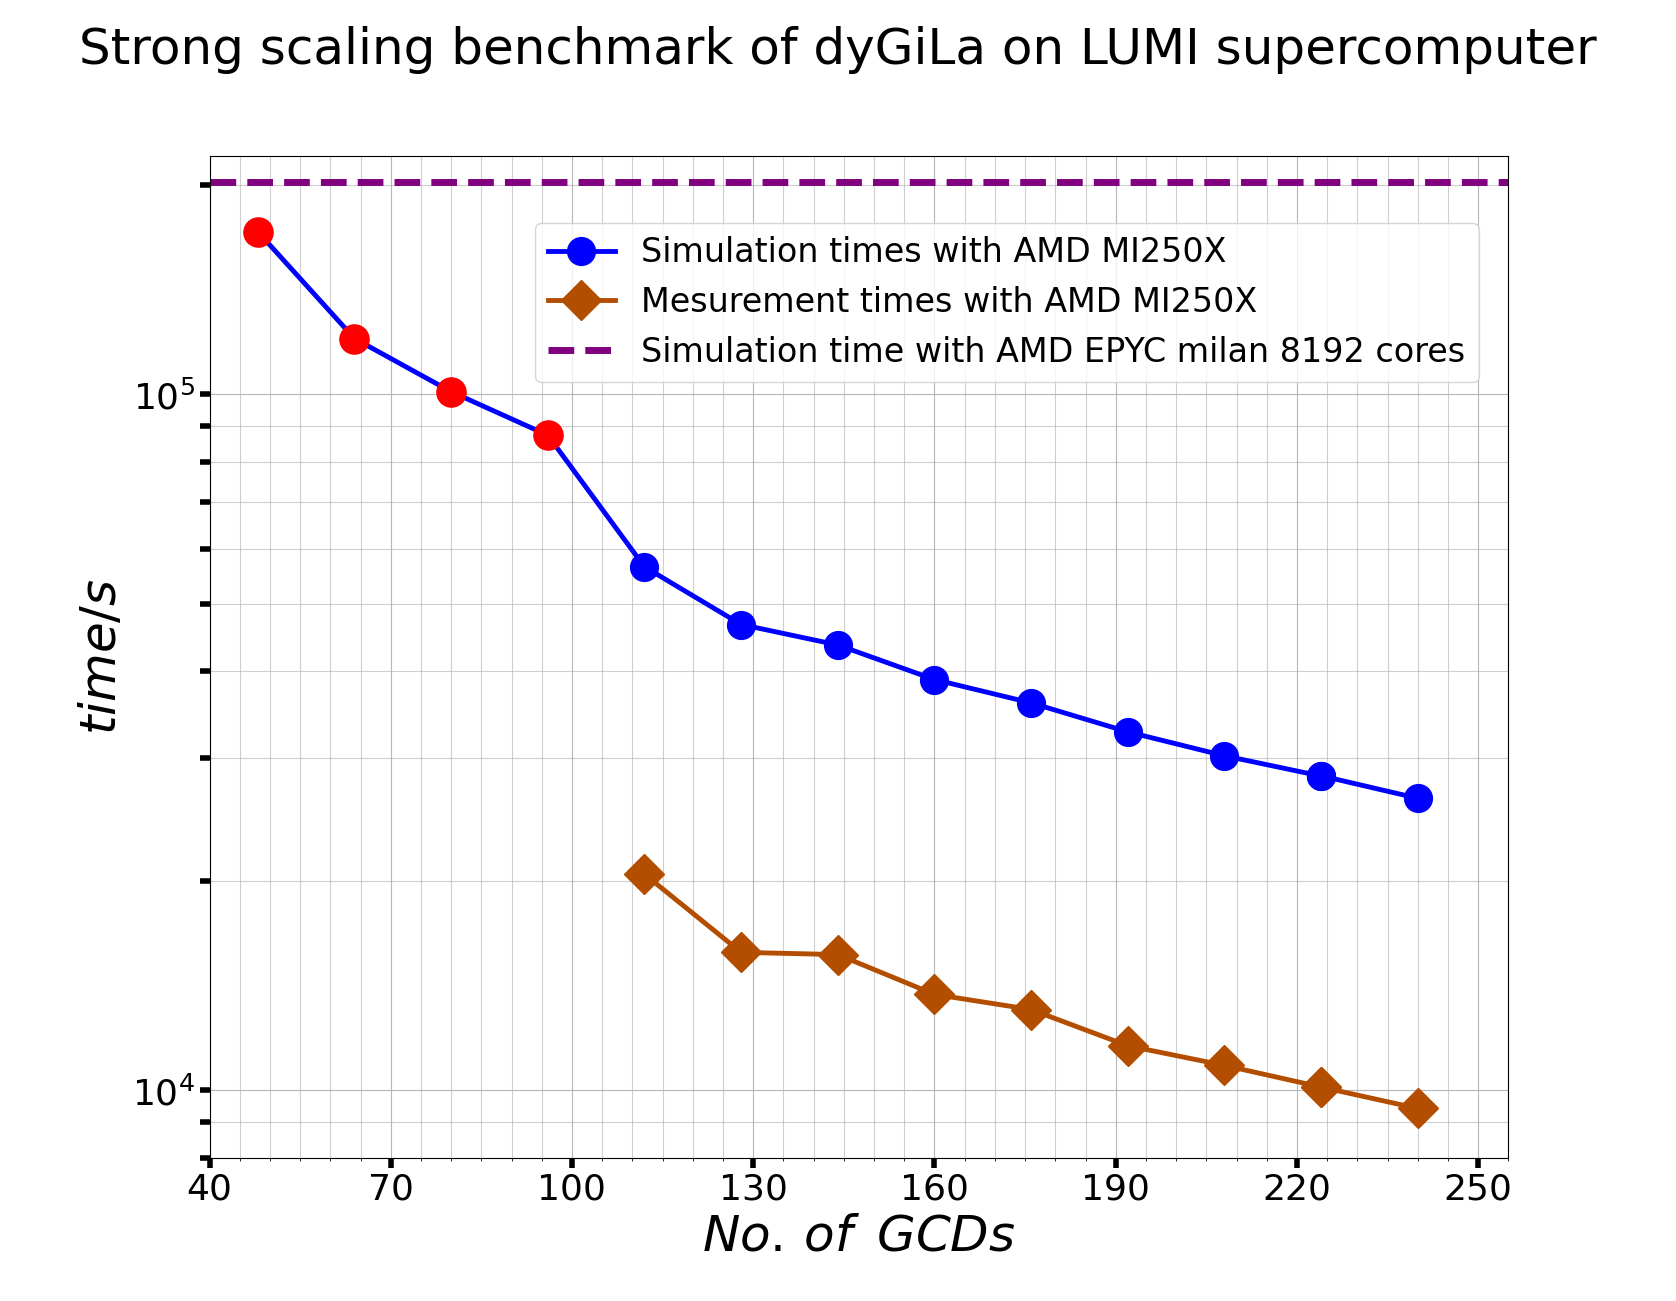
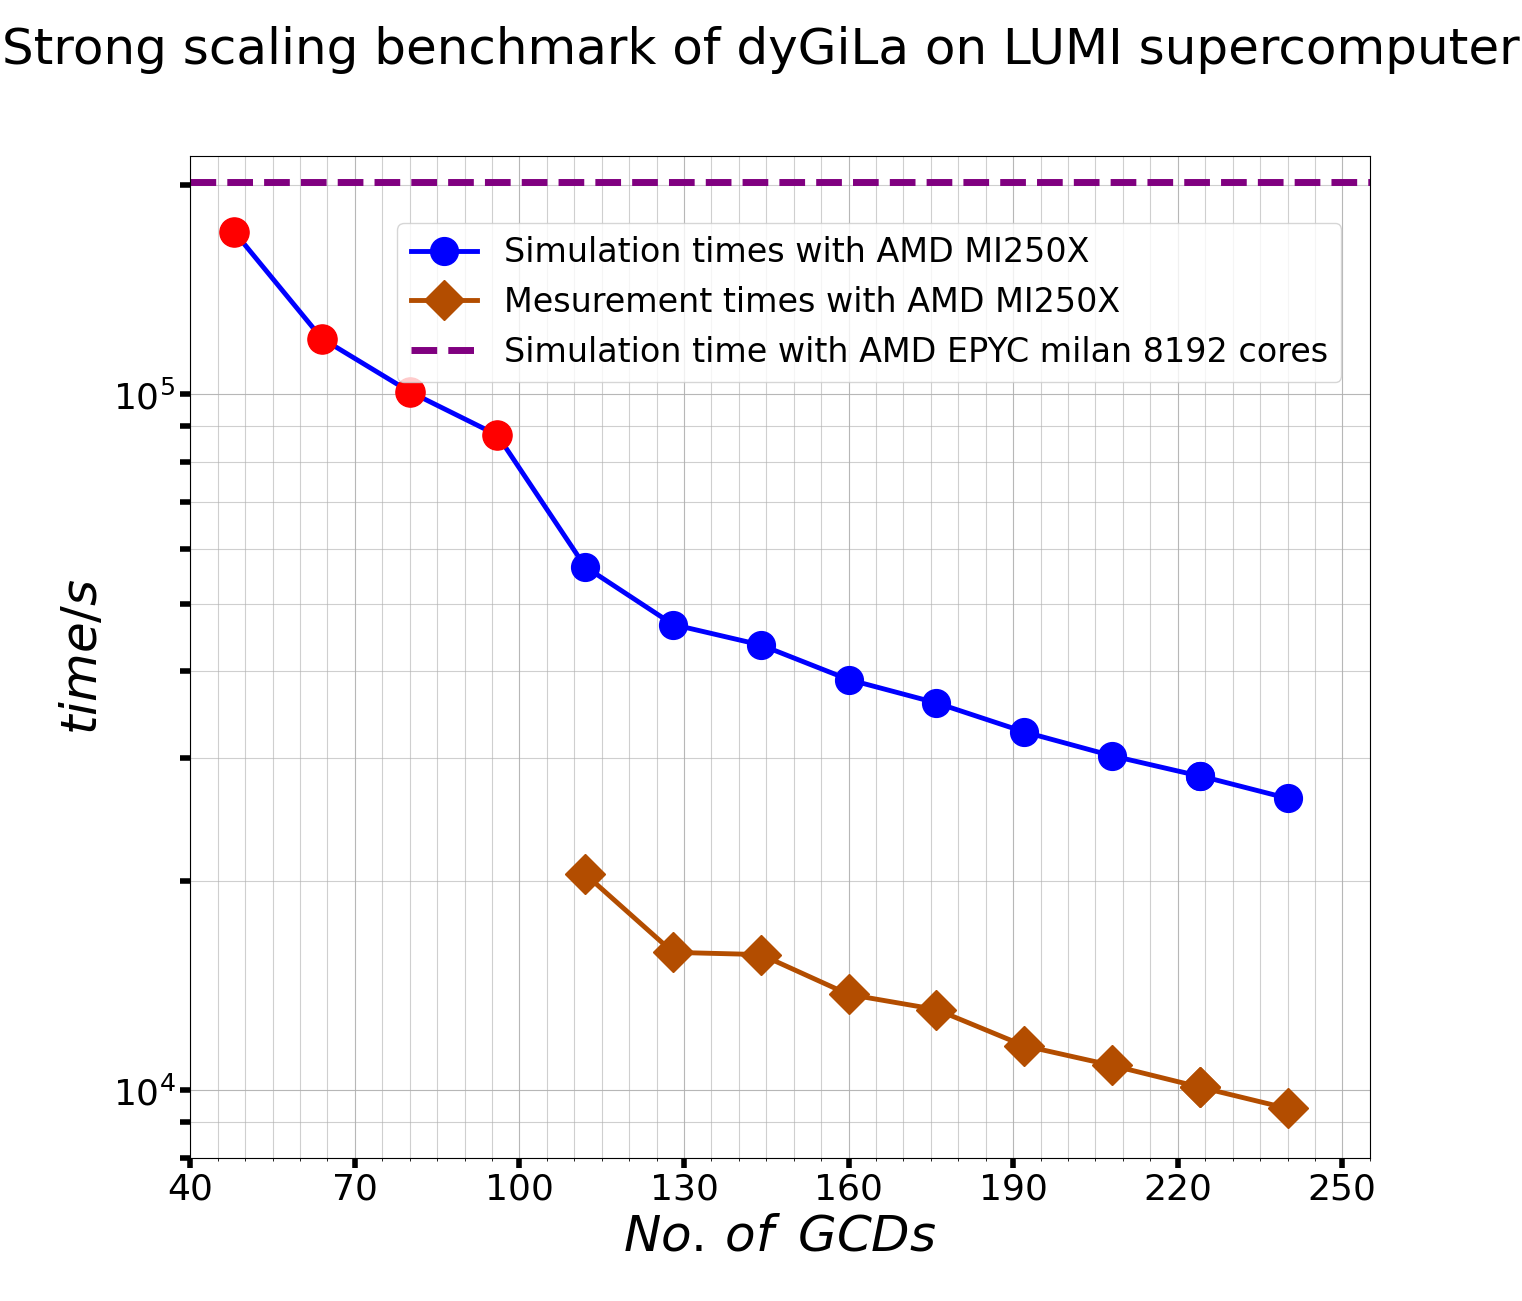
edit install.md

diff --git a/install.md b/install.md
@@ -24,13 +24,17 @@ To know if given AMD hardware is supported by ROCm, one could check the [ROCm su
 
 ### Getting Source and Compile
 
-Same as most of FOSS project, dyGiLa is hosted on public source code repositories service providers Bitbucket and Github.
+Same as most of FOSS project, dyGiLa is hosted on public source code repositories service providers Github, Bitbucket and Gitlab.
 ```console
 $ git clone git@github.com:dyGiLa/dyGiLa.git ./dyGiLa
 ```
 or
 ```console
 $ git clone https://bitbucket.org/hindmars/he3-simulator.git ./dyGila
+```
+or
+```console
+$ git clone https://gitlab.com/lftgl2/dygila.git ./dyGila
 ```
 will fetch default branch to the current path under the folder `dyGiLa`.
 After this run 
